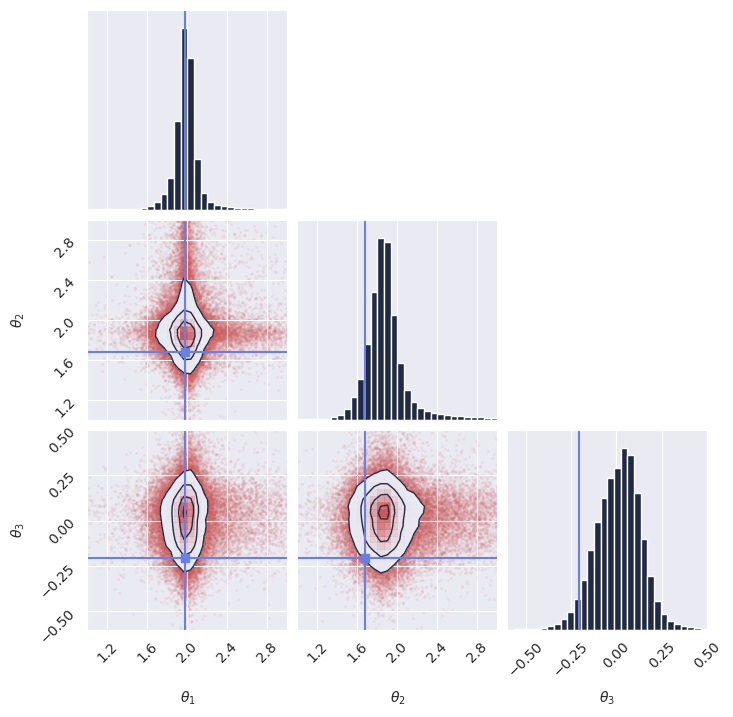
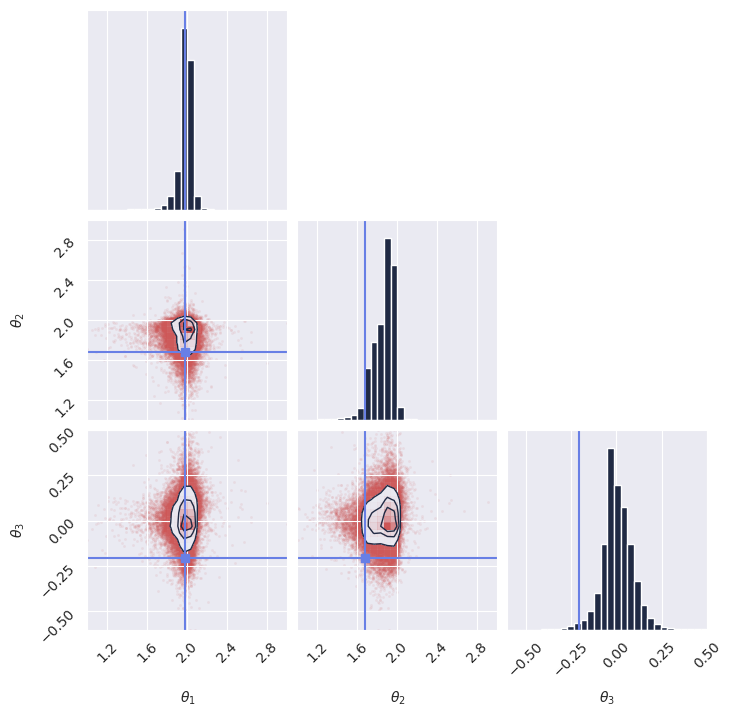
up

diff --git a/src/gensbi/__init__.py b/src/gensbi/__init__.py
@@ -3,9 +3,9 @@ GenSBI: A library for Simulation-Based Inference (SBI) using Optimal Transport F
 
 Provides tools for probabilistic modeling, simulation, and training of generative models, including:
 
-	- Flow Matching techniques
-	- Diffusion models (EDM, score matching)
-	- Transformer-based models (Flux1, Simformer)
+- Flow Matching techniques
+- Diffusion models (EDM, score matching)
+- Transformer-based models (Flux1, Simformer)
 
 See the documentation for details and usage examples.
 """

diff --git a/docs/examples/joint_diffusion_pipeline.py b/docs/examples/joint_diffusion_pipeline.py
@@ -54,7 +54,7 @@ train_data.shape
 
 # %%
 
-batch_size = 256
+batch_size = 1024
 
 train_dataset_grain = (
     grain.MapDataset.source(np.array(train_data))

diff --git a/docs/getting_started/quick_guide.md b/docs/getting_started/quick_guide.md
@@ -1,0 +1,49 @@
+# 5-minute guide
+
+Welcome to GenSBI! This page is a quick guide to get you started with installation and basic usage.
+
+## Installation
+
+GenSBI is in early development. To install, clone the repository and install dependencies:
+
+```bash
+pip install git+https://github.com/aurelio-amerio/GenSBI.git
+```
+
+If a GPU is available, it is advisable to install the cuda version of the package:
+
+```bash
+pip install git+https://github.com/aurelio-amerio/GenSBI.git[cuda12]
+```
+
+## Requirements
+
+- Python 3.11+
+- JAX
+- Flax
+- (See `pyproject.toml` for full requirements)
+
+## Basic Usage
+The most basic usage of GenSBI involves defining a simulation-based inference pipeline using one of the provided recipes. Here is a minimal example of setting up a flow-based inference pipeline using Simformer:
+
+
+```{literalinclude} /examples/conditional_flow_pipeline.py
+:language: python
+:linenos:
+```
+
+```{image} /examples/conditional_flow_pipeline_marginals.png
+:width: 600
+```
+
+```{note}
+If you plan on using multiprocessing prefetching, ensure that your script is wrapped 
+in a ``if __name__ == "__main__":`` guard. 
+See https://docs.python.org/3/library/multiprocessing.html
+```
+
+See the [Examples](/examples) page for practical demonstrations on common SBI benchmarks.
+
+## Citing GenSBI
+
+If you use this library, please consider citing this work and the original methodology papers.

diff --git a/docs/getting_started/installation.md b/docs/getting_started/installation.md
@@ -1,0 +1,40 @@
+# Installation
+
+
+To avoid dependency issues, it is recommended to create a new conda/mamba environment.
+
+```bash
+conda create -n gensbi python=3.12 -y
+conda activate gensbi
+```
+
+To install, clone the repository and install dependencies:
+
+```bash
+pip install git+https://github.com/aurelio-amerio/GenSBI.git
+```
+
+If a GPU is available, it is advisable to install the cuda version of the package:
+
+```bash
+pip install git+https://github.com/aurelio-amerio/GenSBI.git[cuda12]
+```
+
+Although not mandatory, it is recommended to install also the optional validation package, which provides utilities for evaluating inference performance:
+
+```bash
+pip install git+https://github.com/aurelio-amerio/GenSBI-validation.git --extra-index-url https://download.pytorch.org/whl/cpu
+```
+
+If you want to run the examples, install the GenSBI-examples repository:
+
+```bash
+pip install git+https://github.com/aurelio-amerio/GenSBI-examples.git
+```
+
+## Requirements
+
+- Python 3.11+
+- JAX
+- Flax
+- (See `pyproject.toml` for full requirements)

diff --git a/docs/getting_started/index.md b/docs/getting_started/index.md
@@ -1,0 +1,15 @@
+# User Guide
+
+Welcome to GenSBI! This page will help you get started with installation and basic usage.
+
+GenSBI is in early development, please report any issues you may encounter.
+
+```{toctree}
+:maxdepth: 1
+
+quick_guide
+installation
+/notebooks/my_first_model
+model_parameters
+training_tips
+```

diff --git a/docs/index.md b/docs/index.md
@@ -57,7 +57,7 @@ Uses the Simformer model for posterior density estimation on the SLCP benchmark.
 ```{toctree}
 :maxdepth: 1
 
-Getting Started <getting_started>
+Getting Started <getting_started/index>
 Examples <examples>
 References <references>
 API Documentation <api/gensbi/index>

diff --git a/docs/getting_started/model_parameters.md b/docs/getting_started/model_parameters.md
@@ -1,0 +1,3 @@
+# Model Parameters
+
+Work in progress. Documentation coming soon.

diff --git a/docs/getting_started/training_tips.md b/docs/getting_started/training_tips.md
@@ -1,0 +1,3 @@
+# Training tips
+
+Work in progress. Documentation coming soon.
